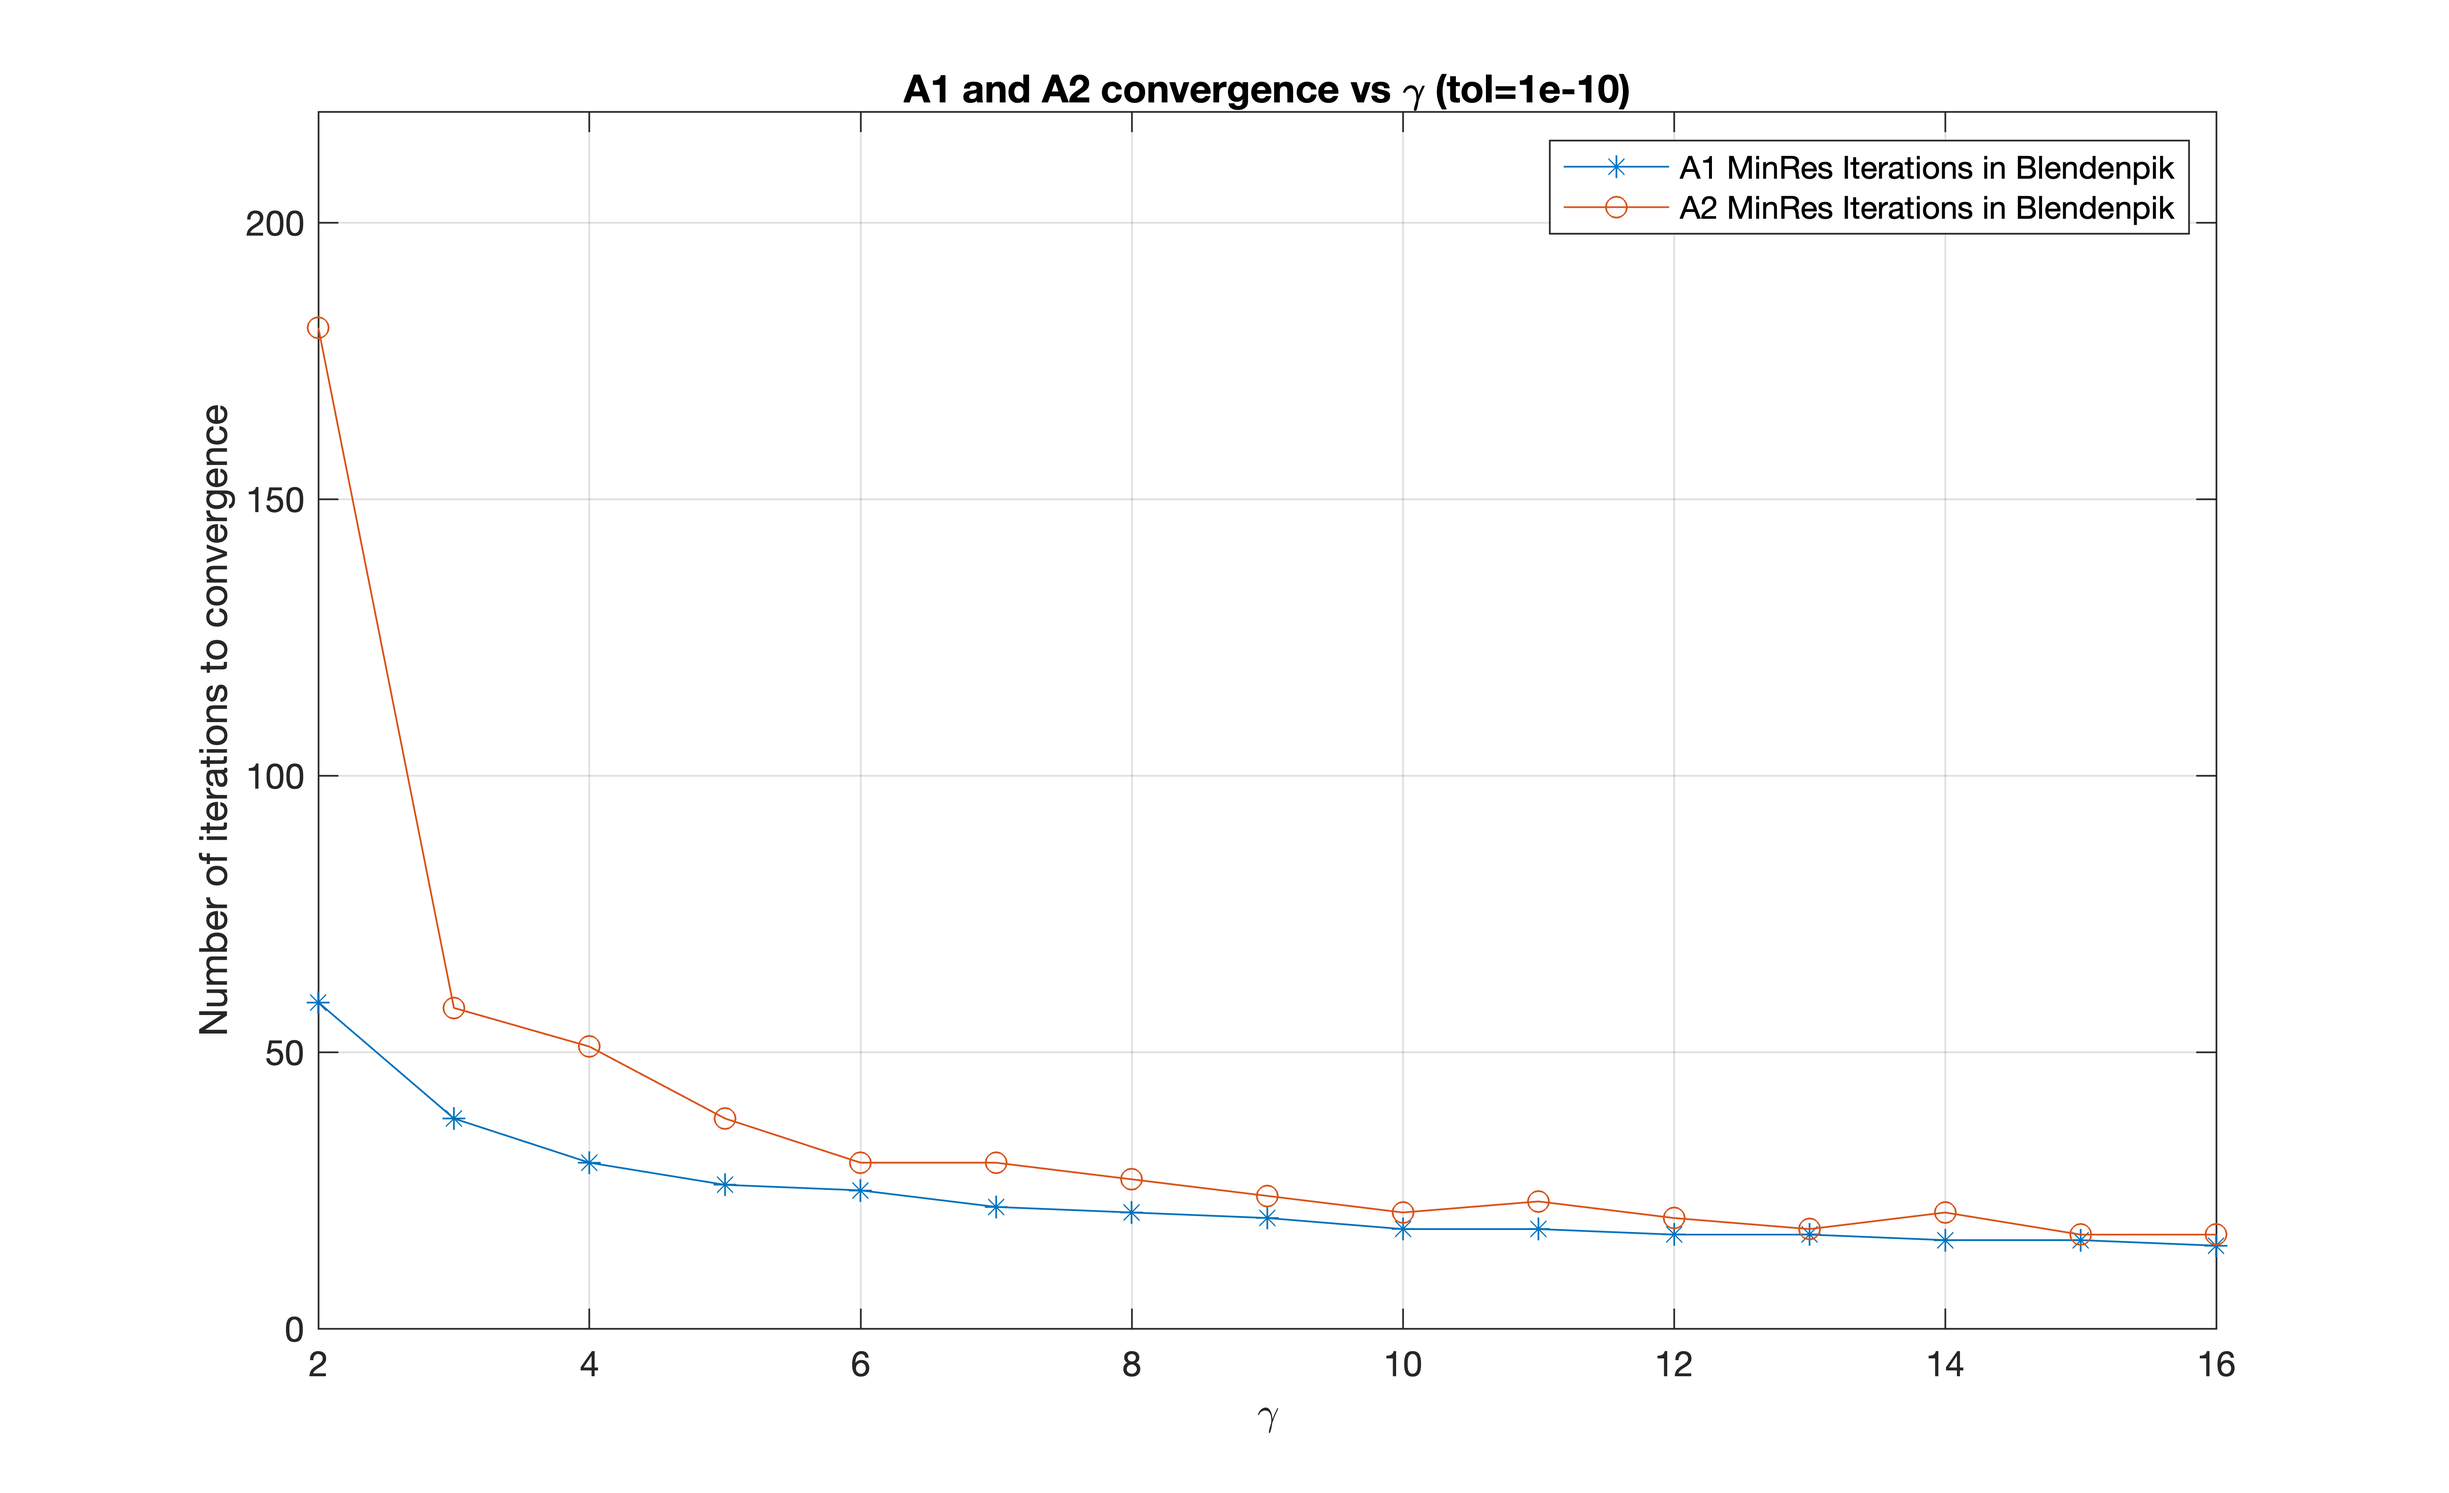
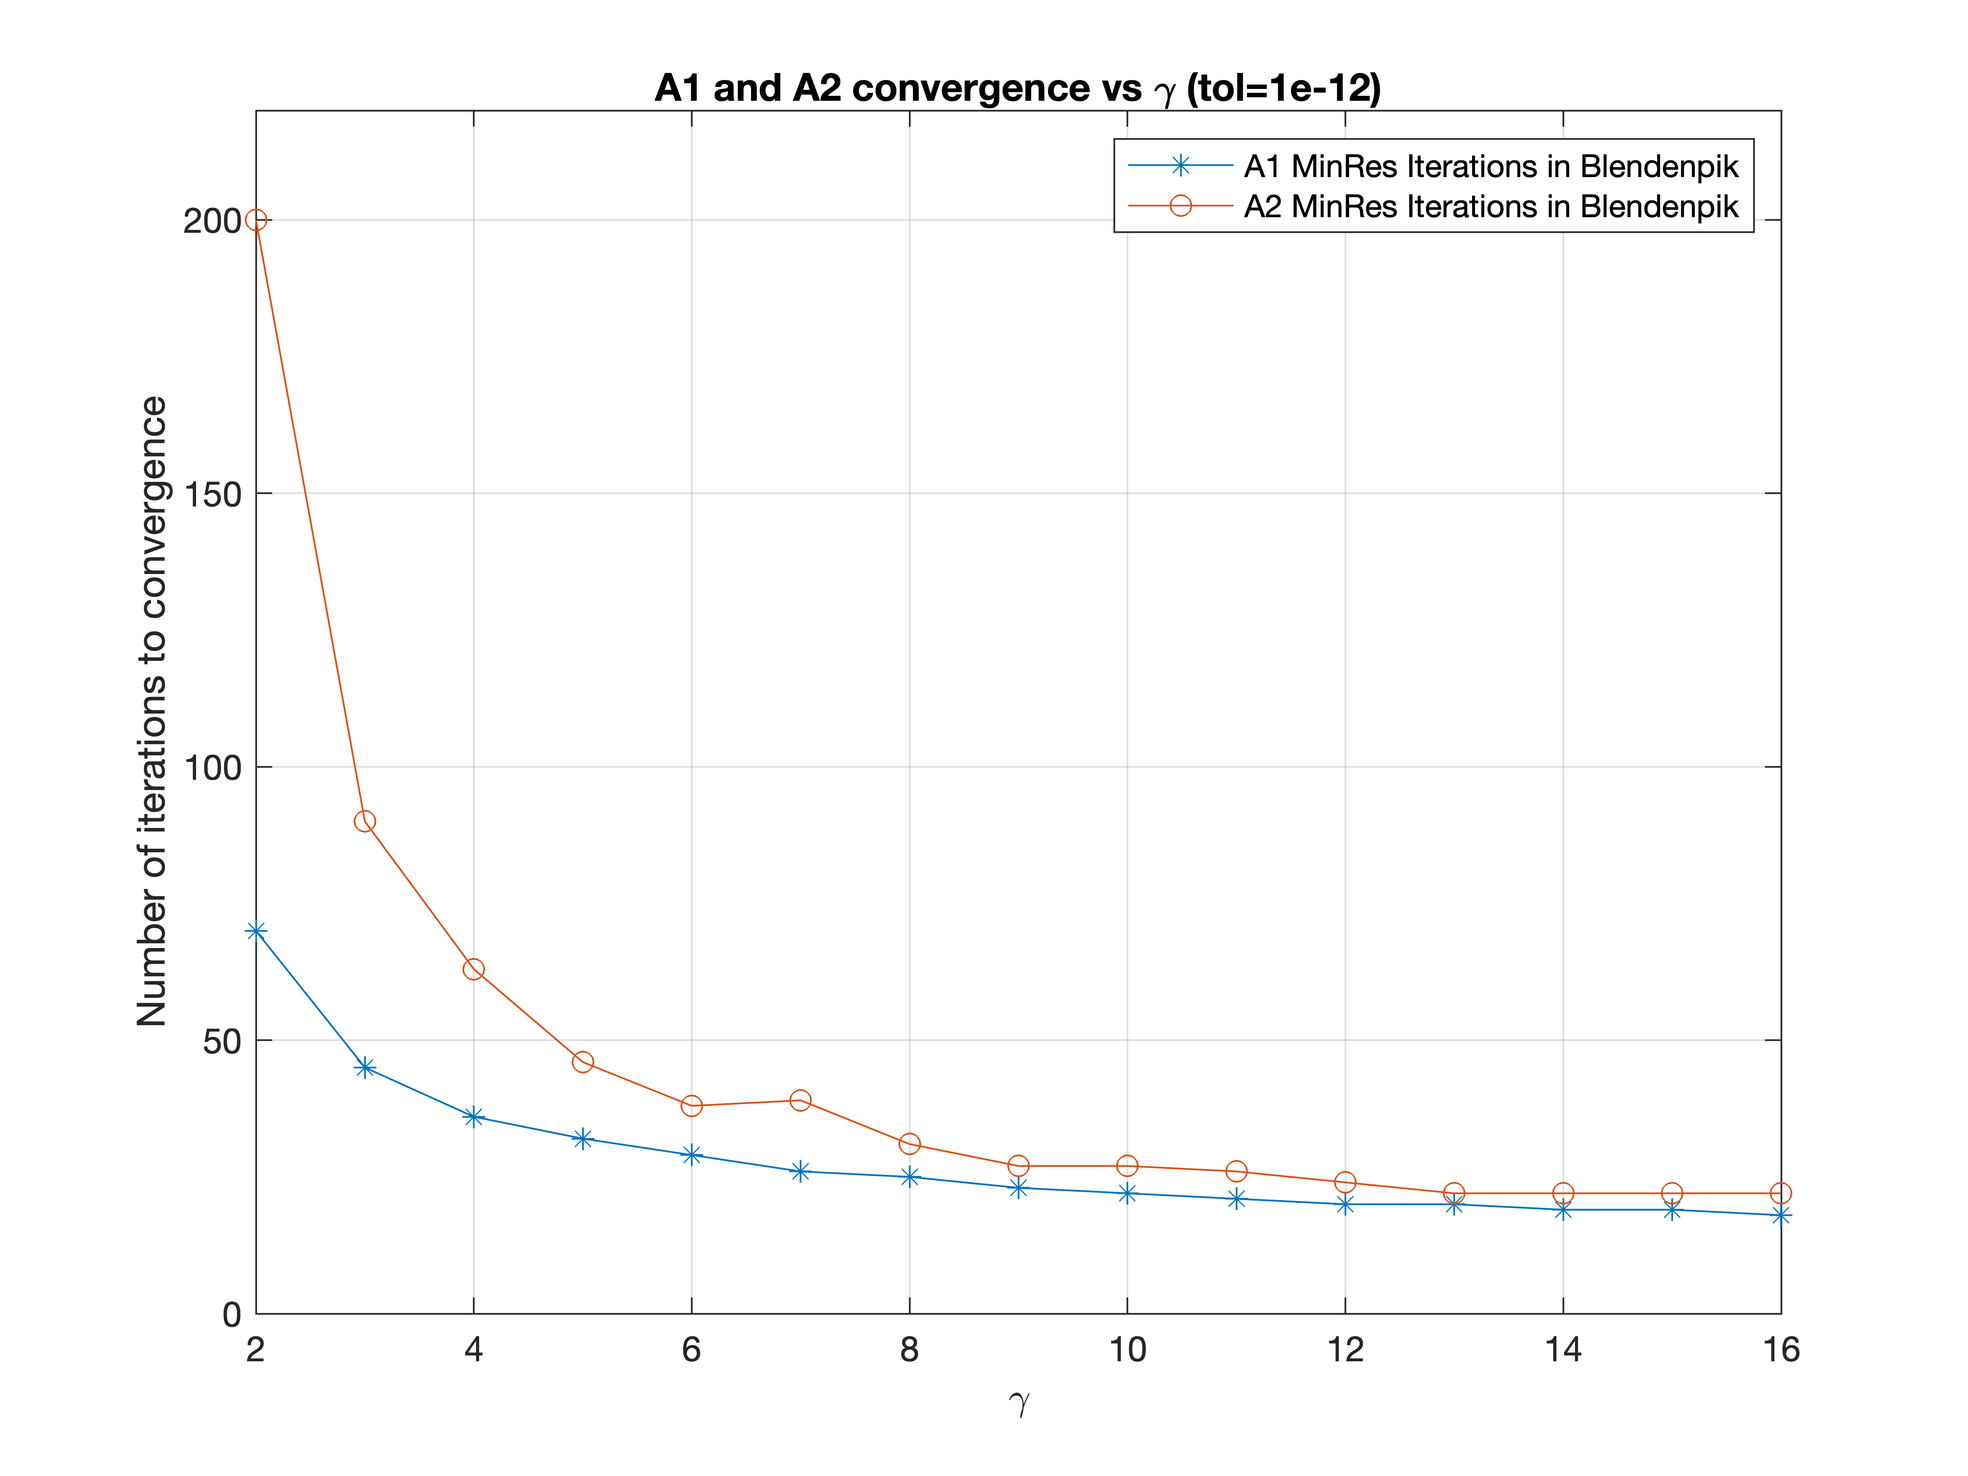
New plots, timings as well

diff --git a/src/run.m b/src/run.m
@@ -1,6 +1,6 @@
 %% Defining Matrices
 clear all; close all; clc;
-tol = 1e-10; maxit = 200; verbose=false;
+tol = 1e-12; maxit = 200; verbose=false; 
 
 rng(11);
 U = orth(rand(20000, 400));
@@ -16,7 +16,7 @@ b2 = rand(size(A2, 1), 1);
 x2 = A2 \ b2;
 
 %% part e) Convergence of (in)coherent matrices for different gammas
-gammas = 2:1:16;
+gammas = 2:1:16; n_trials = 5;
 
 % i) Incoherent, ill-conditioned matrix 
 fprintf("Incoherent, ill-conditioned matrix\n");
@@ -25,13 +25,20 @@ fprintf("cond(A1'*A1): %d\n", cond(A1'*A1));
 
 errorsA1 = [];
 itersA1 = [];
-for gamma = gammas
-    fprintf("gamma: %d\n", gamma);
-    [x_tilde, iters, resvecA1] = blendenpik(A1, b1, gamma, "minres", ...
-                                            "DCT", tol, maxit, verbose);
-    
-    errorsA1 = [errorsA1, norm(x1 - x_tilde)];
-    itersA1 = [itersA1, iters];
+timesA1 = zeros(n_trials, length(gammas));
+for n = 1:n_trials
+    fprintf("Trial: %d\n", n);
+    for i = 1:length(gammas)
+        gamma = gammas(i);
+        fprintf("gamma: %d\n", gamma);
+        [x_tilde, iters, resvecA1, time] = blendenpik(A1, b1, gamma, "minres", ...
+                                                "DCT", tol, maxit, verbose);
+        if n == 1
+            errorsA1 = [errorsA1, norm(x1 - x_tilde)];
+            itersA1 = [itersA1, iters];
+        end 
+        timesA1(n, i) = time;
+    end
 end
 fprintf("\n\n");
 
@@ -42,13 +49,21 @@ fprintf("cond(A2'*A2): %d \n", cond(A2'*A2));
 
 errorsA2 = [];
 itersA2 = [];
-for gamma = gammas
-    fprintf("gamma: %d\n", gamma);
-    [x_tilde, iters, resvecA2] = blendenpik(A2, b2, gamma, "minres", ...
-                                            "DCT", tol, maxit, verbose);
-    
-    errorsA2 = [errorsA2, norm(x2 - x_tilde)];
-    itersA2 = [itersA2, iters];
+timesA2 = zeros(n_trials, length(gammas));
+for n = 1:n_trials
+    fprintf("Trial: %d\n", n);
+    for i = 1:length(gammas)
+        gamma = gammas(i);
+        fprintf("gamma: %d\n", gamma);
+        [x_tilde, iters, resvecA2, time] = blendenpik(A2, b2, gamma, "minres", ...
+                                                "DCT", tol, maxit, verbose);
+        
+        if n == 1
+            errorsA2 = [errorsA2, norm(x2 - x_tilde)];
+            itersA2 = [itersA2, iters];
+        end 
+        timesA2(n, i) = time;
+    end
 end
 fprintf("\n\n");
 
@@ -64,35 +79,57 @@ ylim([0, maxit * 1.1]);
 grid on;
 hold off;
 
+figure(2);
+plot(gammas, timesA1(1, 1:end), '-*');
+hold on;
+plot(gammas, timesA2(1, 1:end), '-o');
+title("A1 and A2 convergence vs \gamma (tol=" + tol + ")");
+legend("A1 MinRes Times in Blendenpik", "A2 MinRes Times in Blendenpik");
+xlabel("\gamma");
+ylabel("Time [s]");
+grid on;
+hold off;
+
+figure(3);
+plot(gammas, mean(timesA1, 1), '-*');
+hold on;
+plot(gammas, mean(timesA2, 1), '-o');
+title("A1 and A2 convergence vs \gamma averaged over " + n_trials + " runs (tol=" + tol + ")");
+legend("A1 MinRes Mean Times in Blendenpik", "A2 MinRes Mean Times in Blendenpik");
+xlabel("\gamma");
+ylabel("Time [s]");
+grid on;
+hold off;
+
 %% part f) Convergence of inner LSQR/ MINRES steps in Blendenpik
-gamma = 5; maxit=200;
+gamma = 5; maxit = 200;
 
-[x1m, iters, resvecA1_mres] = blendenpik(A1, b1, gamma, "minres", "DCT", ... 
+[x1m, ~, resvecA1_mres, ~] = blendenpik(A1, b1, gamma, "minres", "DCT", ... 
                                         tol, maxit, verbose);
-[x1l, iters, resvecA1_lsqr] = blendenpik(A1, b1, gamma, "lsqr", "DCT", ... 
+[x1l, ~, resvecA1_lsqr, ~] = blendenpik(A1, b1, gamma, "lsqr", "DCT", ... 
                                         tol, maxit, verbose);
 
-[x2m, iters, resvecA2_mres] = blendenpik(A2, b2, gamma, "minres", "DCT", ... 
+[x2m, ~, resvecA2_mres, ~] = blendenpik(A2, b2, gamma, "minres", "DCT", ... 
                                         tol, maxit, verbose);
-[x2l, iters, resvecA2_lsqr] = blendenpik(A2, b2, gamma, "lsqr", "DCT", ... 
+[x2l, ~, resvecA2_lsqr, ~] = blendenpik(A2, b2, gamma, "lsqr", "DCT", ... 
                                         tol, maxit, verbose);
                    
-figure(2);
+figure(4);
 semilogy(1:length(resvecA1_mres), resvecA1_mres);
 hold on;
 semilogy(1:length(resvecA1_lsqr), resvecA1_lsqr);
-title("A1 Iterative Solver Residuals (\gamma = " + gamma + ")");
+title("A1 Iterative Solver Residuals (\gamma = " + gamma + ", tol = " + tol + ")");
 legend("A1 Blendenpik with MinRes", "A1 Blendenpik with LSQR");
 xlabel("Iteration");
 ylabel("$||\tilde{A}^{T}r_{i}||_{2}$", 'Interpreter', 'Latex');
 grid on;
 hold off;
 
-figure(3);
+figure(5);
 semilogy(1:length(resvecA2_mres), resvecA2_mres);
 hold on;
 semilogy(1:length(resvecA2_lsqr), resvecA2_lsqr);
-title("A2 Iterative Solver Residuals (\gamma = " + gamma + ")");
+title("A2 Iterative Solver Residuals (\gamma = " + gamma + ", tol = " + tol + ")");
 legend("A2 Blendenpik with MinRes", "A2 Blendenpik with LSQR");
 xlabel("Iteration");
 ylabel("$||\tilde{A}^{T}r_{i}||_{2}$", 'Interpreter', 'Latex');

diff --git a/src/blendenpik.m b/src/blendenpik.m
@@ -1,5 +1,6 @@
-function [x, iter, resvec] = blendenpik(A, b, gamma, iter_method, ... 
-                           transform_type, tol, maxit, verbose)
+function [x, iter, resvec, time] = blendenpik(A, b, gamma, iter_method, ... 
+                                   transform_type, tol, maxit, verbose)
+    tic;
     [m, n] = size(A);
     
     if m < n
@@ -32,9 +33,9 @@ function [x, iter, resvec] = blendenpik(A, b, gamma, iter_method, ...
         [Q, R] = qr(SM, 0);
         
         if verbose == true
-            fprintf("cond(inv(R')*A'*A*inv(R)): %f\n", ..., 
-                cond(inv(R') * (A' * A) * inv(R)));
-            % cond(R' \ ((A' * A) / R))
+            fprintf("cond(R^(-T)*A'*A*R^-1): %f\n", ... 
+                cond(R' \ ((A' * A) / R)))
+            fprintf("cond(AR^-1) = %d\n", cond(A / R));
         end
         cond_estimate = rcond(R);
         if 1 / cond_estimate > 5 * eps(1)
@@ -52,6 +53,7 @@ function [x, iter, resvec] = blendenpik(A, b, gamma, iter_method, ...
                 fprintf("Enter a valid iterative method (minres or lsqr)");
                 return;
             end
+            time = toc;
             return;
         elseif n_iter > 3
             fprintf("Failure, solve using LAPACK \n");
